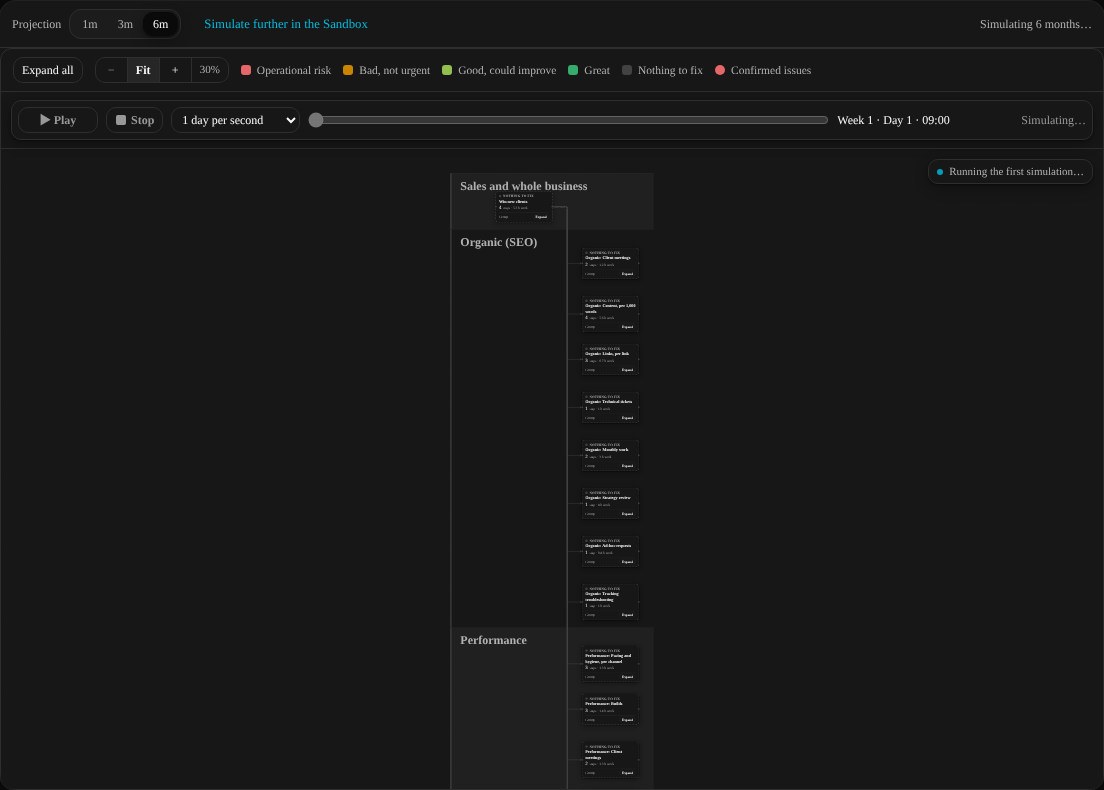
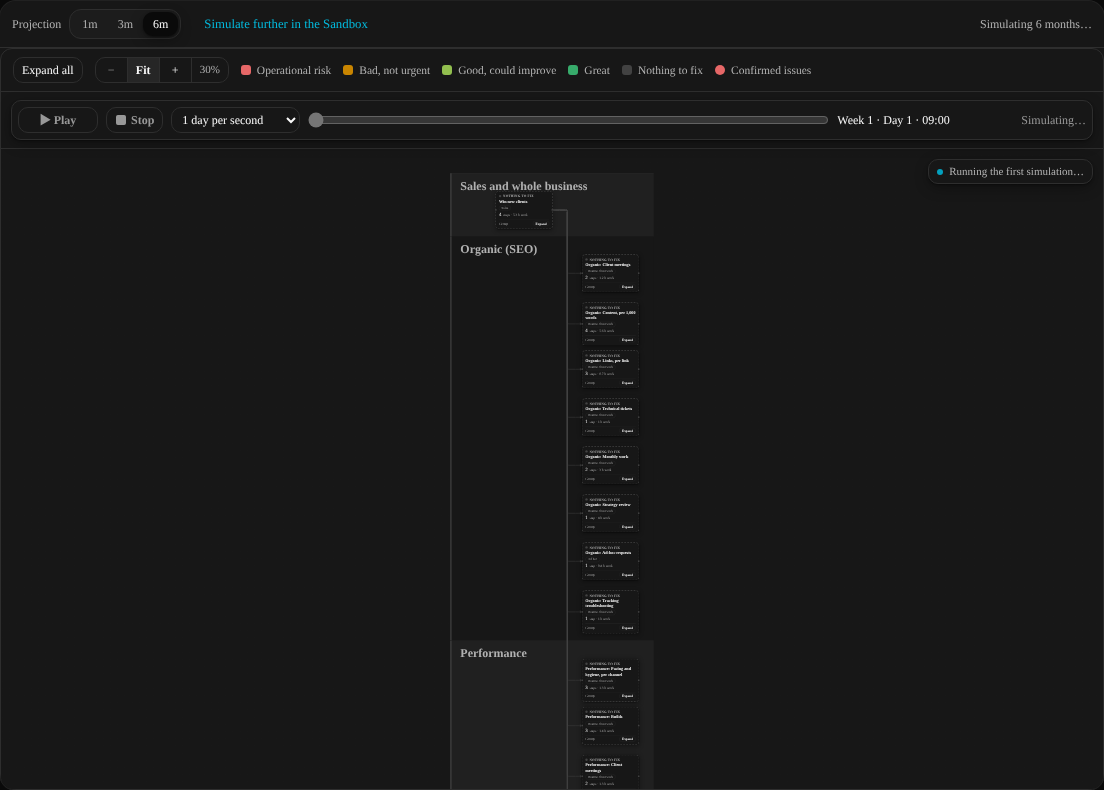
Company map: a category pill on each process card
Claude-Session: https://claude.ai/code/session_0162F8LBTTDy4Bydy6b4pcBv

diff --git a/apps/web/src/components/process-canvas.tsx b/apps/web/src/components/process-canvas.tsx
@@ -183,6 +183,8 @@ type GroupNodeData = {
   rated: boolean;
   /** Highlighting: true outlined, false dimmed (closed cards only), null when nothing is highlighted. */
   lit: boolean | null;
+  /** The process's category as a small pill (the company map; Q4), or null. */
+  tag: string | null;
 };
 
 type StepFlowNode = Node<StepNodeData, "step">;
@@ -495,6 +497,7 @@ function GroupNode({ data, selected }: NodeProps<GroupFlowNode>) {
             <p className="text-[11px] text-fg-3">
               Group · {roll.steps} {roll.steps === 1 ? "step" : "steps"}
             </p>
+            {data.tag && <TagPill tag={data.tag} />}
           </div>
           {toggle}
         </div>
@@ -522,6 +525,7 @@ function GroupNode({ data, selected }: NodeProps<GroupFlowNode>) {
       <p data-field="name" title={step.name} className="mt-0.5 line-clamp-2 text-sm leading-tight font-semibold text-fg">
         {step.name}
       </p>
+      {data.tag && <TagPill tag={data.tag} />}
       <p className={headlineRowClass}>
         <span className="font-mono text-base leading-none font-medium text-fg tabular-nums">{roll.steps}</span>
         <span className="min-w-0 truncate text-[11.5px] leading-4 text-fg-2" title="Hands-on time of every step inside, added up">
@@ -535,6 +539,15 @@ function GroupNode({ data, selected }: NodeProps<GroupFlowNode>) {
       {warning && <Warning text={warning} />}
       <Handle type="source" position={Position.Right} className={handleClass(editable)} />
     </div>
+  );
+}
+
+/** A process's category, as a small pill on its card. */
+function TagPill({ tag }: { tag: string }) {
+  return (
+    <span data-process-tag className="mt-1 inline-block max-w-full truncate rounded-full border border-line bg-panel px-2 text-[10.5px] leading-4 font-medium text-fg-2">
+      {tag}
+    </span>
   );
 }
 
@@ -930,6 +943,8 @@ interface CanvasProps {
    * another lane: the department is set on the process page.
    */
   departmentLanes?: { spec: BandSpec; always?: boolean };
+  /** A small pill of text on a process card, by the card's step id: the process's category on the company map (Q4). */
+  cardTags?: ReadonlyMap<string, string>;
   /**
    * `fill`: as tall as the space it is given (the editor). `auto`: as tall as the map needs, from 16 to 40 rem,
    * so a small map doesn't sit in a tall empty panel. Default `auto` when read-only, `fill` when editable.
@@ -1003,6 +1018,7 @@ function Canvas({
   showLanes = true,
   defaultLanes = false,
   departmentLanes,
+  cardTags,
   height: heightProp,
   onStepClick,
   stepDetail = true,
@@ -1186,6 +1202,7 @@ function Canvas({
             rated: rating !== undefined,
             // An open group is a box around its steps: it can be outlined but never fades.
             lit: lit ? (open ? lit.has(step.id) || null : lit.has(step.id)) : null,
+            tag: cardTags?.get(step.id) ?? null,
           };
           return {
             id: step.id,
@@ -1293,7 +1310,7 @@ function Canvas({
         };
       });
     return [...ghosts, ...drafted];
-  }, [bundle, result, selection.steps, dragging, measured, warnings, editable, order, layout, editing, editingId, nodeCache, playback.pulsing, diff, drawn, lit, openIssues, rating, handoffs]);
+  }, [bundle, result, selection.steps, dragging, measured, warnings, editable, order, layout, editing, editingId, nodeCache, playback.pulsing, diff, drawn, lit, openIssues, rating, handoffs, cardTags]);
 
   const edges = useMemo(() => {
     const selected = new Set(selection.edges);

diff --git a/apps/web/src/components/editor/editor-view.tsx b/apps/web/src/components/editor/editor-view.tsx
@@ -37,6 +37,7 @@ import { parseSolutionInput, type SaveSolutionResult } from "@/lib/solutions/sav
 import type { TargetVerdict } from "@/lib/solutions/verdict";
 import { verdictInWorker } from "@/lib/solutions/verdict-client";
 import { Button } from "@/components/ui/button";
+import { PROCESS_CATEGORY_LABELS } from "@transpera-flow/db";
 import { NO_SELECTION, ProcessCanvas, type Selection } from "@/components/process-canvas";
 import { laneOfProcesses, laneSpecs, type DepartmentLaneInput } from "@/lib/overview/department-lanes";
 import { SaveProblems } from "@/components/save-problems";
@@ -146,6 +147,12 @@ export function EditorView({
   const diff = useMemo(() => (marksChanges ? diffBundles(live, working) : EMPTY_DIFF), [marksChanges, live, working]);
   const names = useMemo(() => namesOf(working, live), [working, live]);
   // The company map's department lanes (Q4): each holder card goes in the lane of the process it holds.
+  // A pill with the category of the process each holder card holds (Q4, with Q3's labels).
+  const cardTags = useMemo(() => {
+    if (!company) return undefined;
+    const label = new Map((working.otherProcesses ?? []).map((p) => [p.process.id, PROCESS_CATEGORY_LABELS[p.process.category]] as const));
+    return new Map(working.steps.flatMap((s) => (s.child_process_id && label.has(s.child_process_id) ? [[s.id, label.get(s.child_process_id)!] as const] : [])));
+  }, [company, working.otherProcesses, working.steps]);
   const departmentLanes = useMemo(() => {
     if (!company || !laneInput) return undefined;
     const lane = laneOfProcesses((working.otherProcesses ?? []).map((p) => p.process), laneInput);
@@ -409,6 +416,7 @@ export function EditorView({
               commands={company ? null : commands}
               handoffs={company}
               departmentLanes={departmentLanes}
+              cardTags={cardTags}
               diff={marksChanges ? diff : null}
               highlight={outlined}
               onRestore={restore}

diff --git a/apps/web/src/components/overview/overview.tsx b/apps/web/src/components/overview/overview.tsx
@@ -40,6 +40,7 @@ import { Skeleton } from "@/components/ui/skeleton";
 import { OVERVIEW_HORIZONS, horizonLabel, horizonWeeks, isOverviewHorizon, nearestOverviewHorizon } from "@/lib/horizon";
 import { perceptionGapDetections } from "@/lib/issues/perception";
 import { mapFeed, registerEntries, stepRatingOf } from "@/lib/issues/register";
+import { PROCESS_CATEGORY_LABELS } from "@transpera-flow/db";
 import { companyMap } from "@/lib/overview/company-map";
 import { laneOfProcesses, laneSpecs, type DepartmentLaneInput } from "@/lib/overview/department-lanes";
 import { sortFindings } from "@/lib/overview/findings";
@@ -261,6 +262,8 @@ export function Overview({
     () => (laneInput ? { spec: { lanes: laneSpecs(laneInput), laneOf: laneOfProcesses(parts.map((p) => p.process), laneInput) }, always: true } : undefined),
     [laneInput, parts],
   );
+  // A pill with each process's category on its card (Q4, with Q3's labels).
+  const cardTags = useMemo(() => new Map(parts.map((p) => [p.process.id, PROCESS_CATEGORY_LABELS[p.process.category]] as const)), [parts]);
   const openProcess = (stepId: string) => {
     const process = map.processOfStep.get(stepId);
     const href = process ? hrefs[process] : undefined;
@@ -408,6 +411,7 @@ export function Overview({
                 playbackAbove
                 showLanes={false}
                 departmentLanes={departmentLanes}
+                cardTags={cardTags}
                 handoffs
                 height="auto"
                 stepDetail={false}

diff --git a/apps/web/test/overview-lanes-browser.test.ts b/apps/web/test/overview-lanes-browser.test.ts
@@ -129,6 +129,11 @@ describe("department lanes on the Overview company map", () => {
     expect(expected.Performance!.length).toBeGreaterThan(0);
     expect(expected["Sales and whole business"]!.length).toBeGreaterThan(0);
     for (const [label, list] of Object.entries(expected)) expect(lane[label]!.sort()).toEqual(list.sort());
+    // Each process card carries a pill with its category, in Q3's words.
+    const tags = await page.locator("[data-company-map] [data-process-tag]").allInnerTexts();
+    expect(tags).toHaveLength(data.parts.length);
+    expect(tags).toContain("Sales");
+    expect(tags).toContain("Routine client work");
     expect(errors).toEqual([]);
     await page.close();
   }, 120_000);
